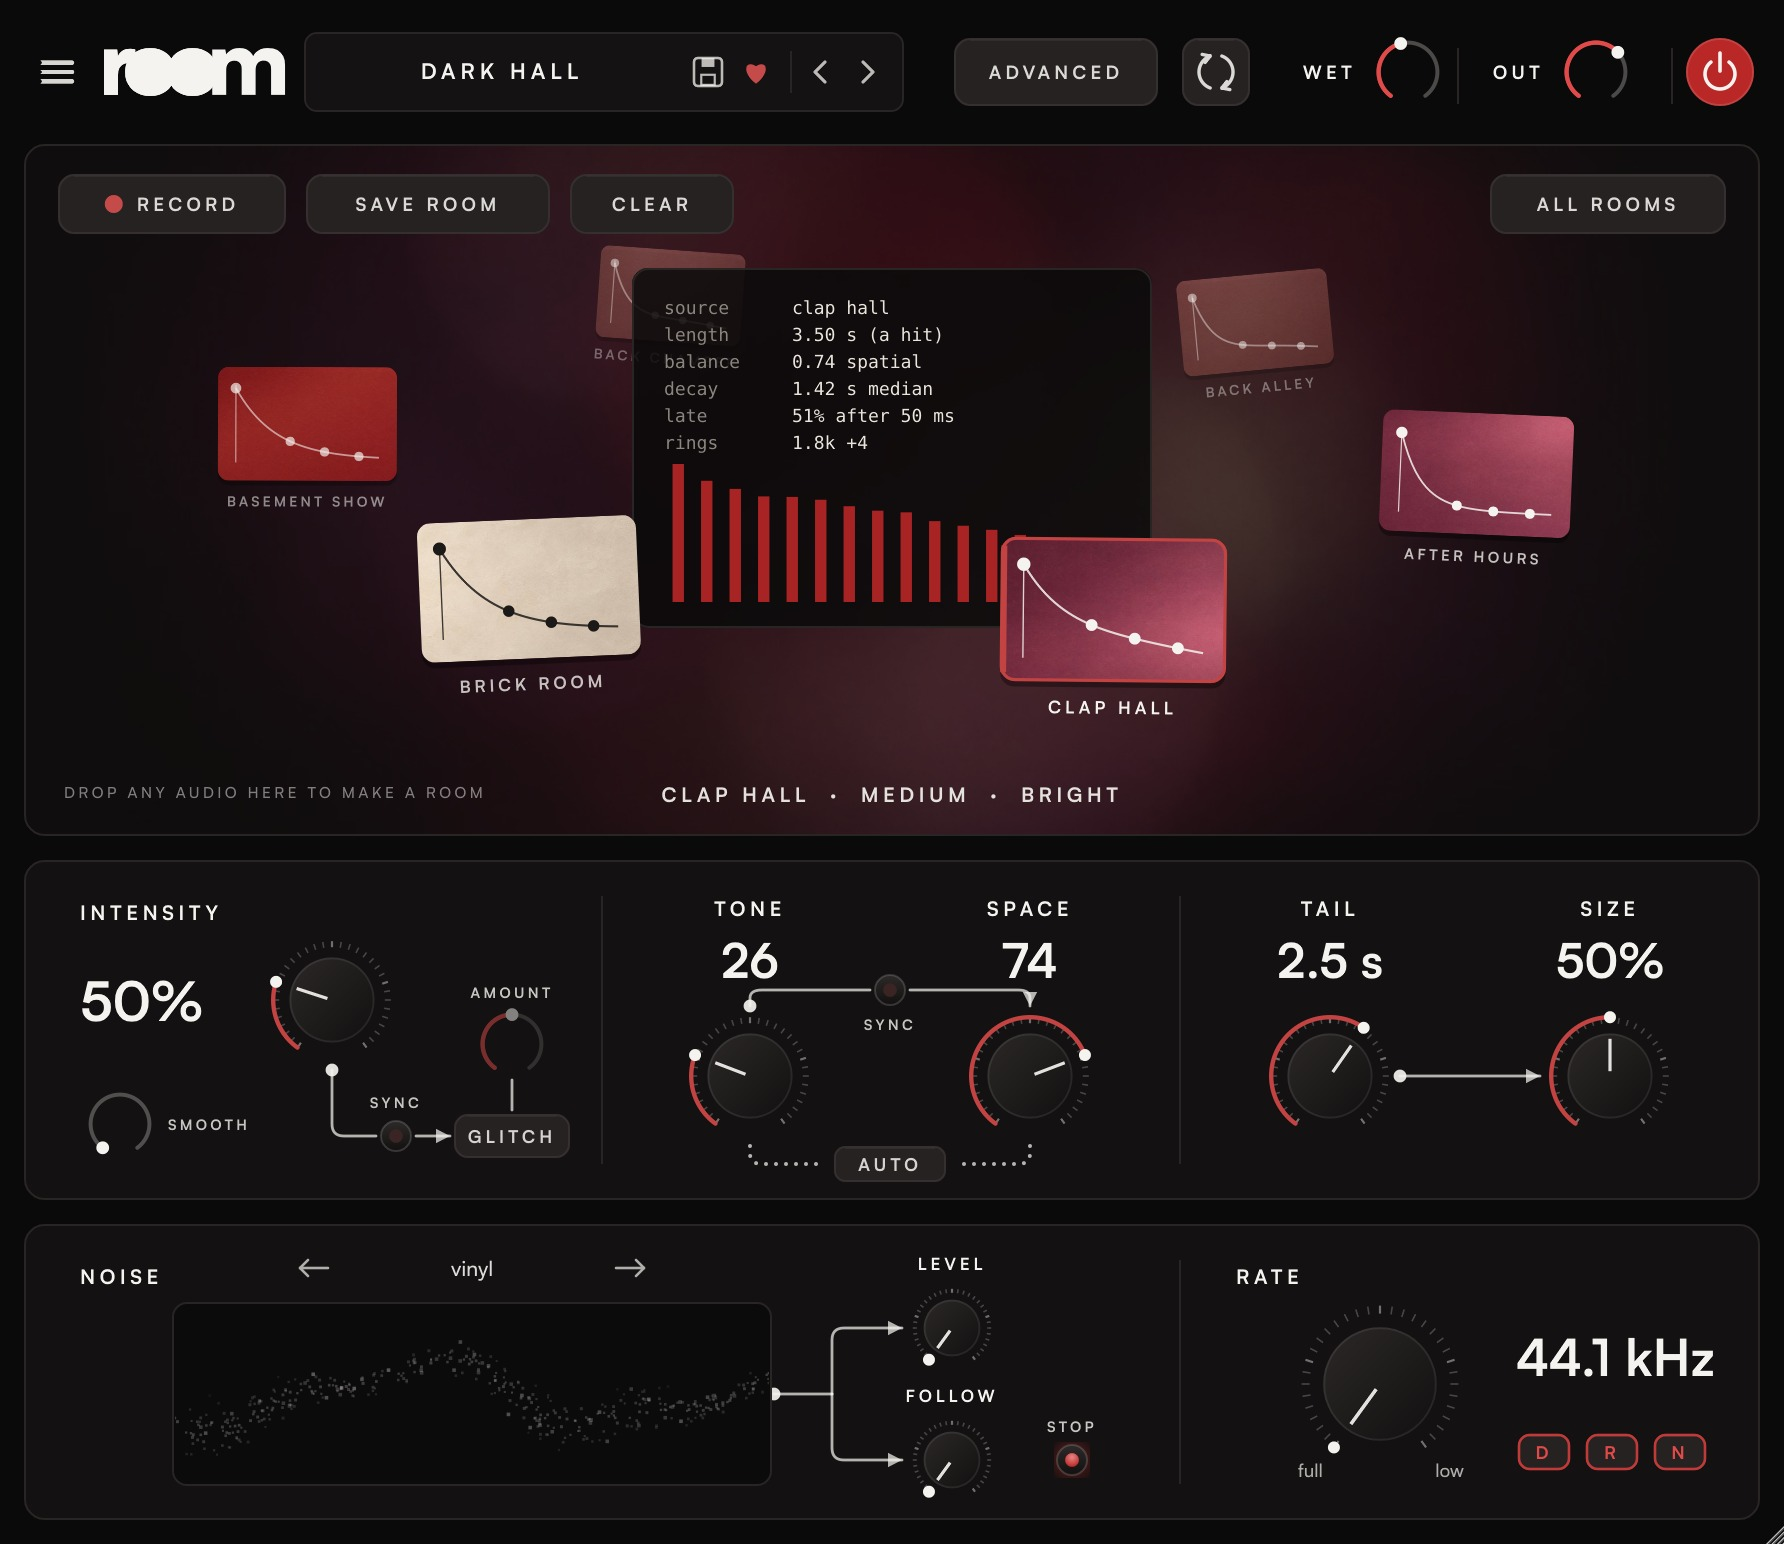
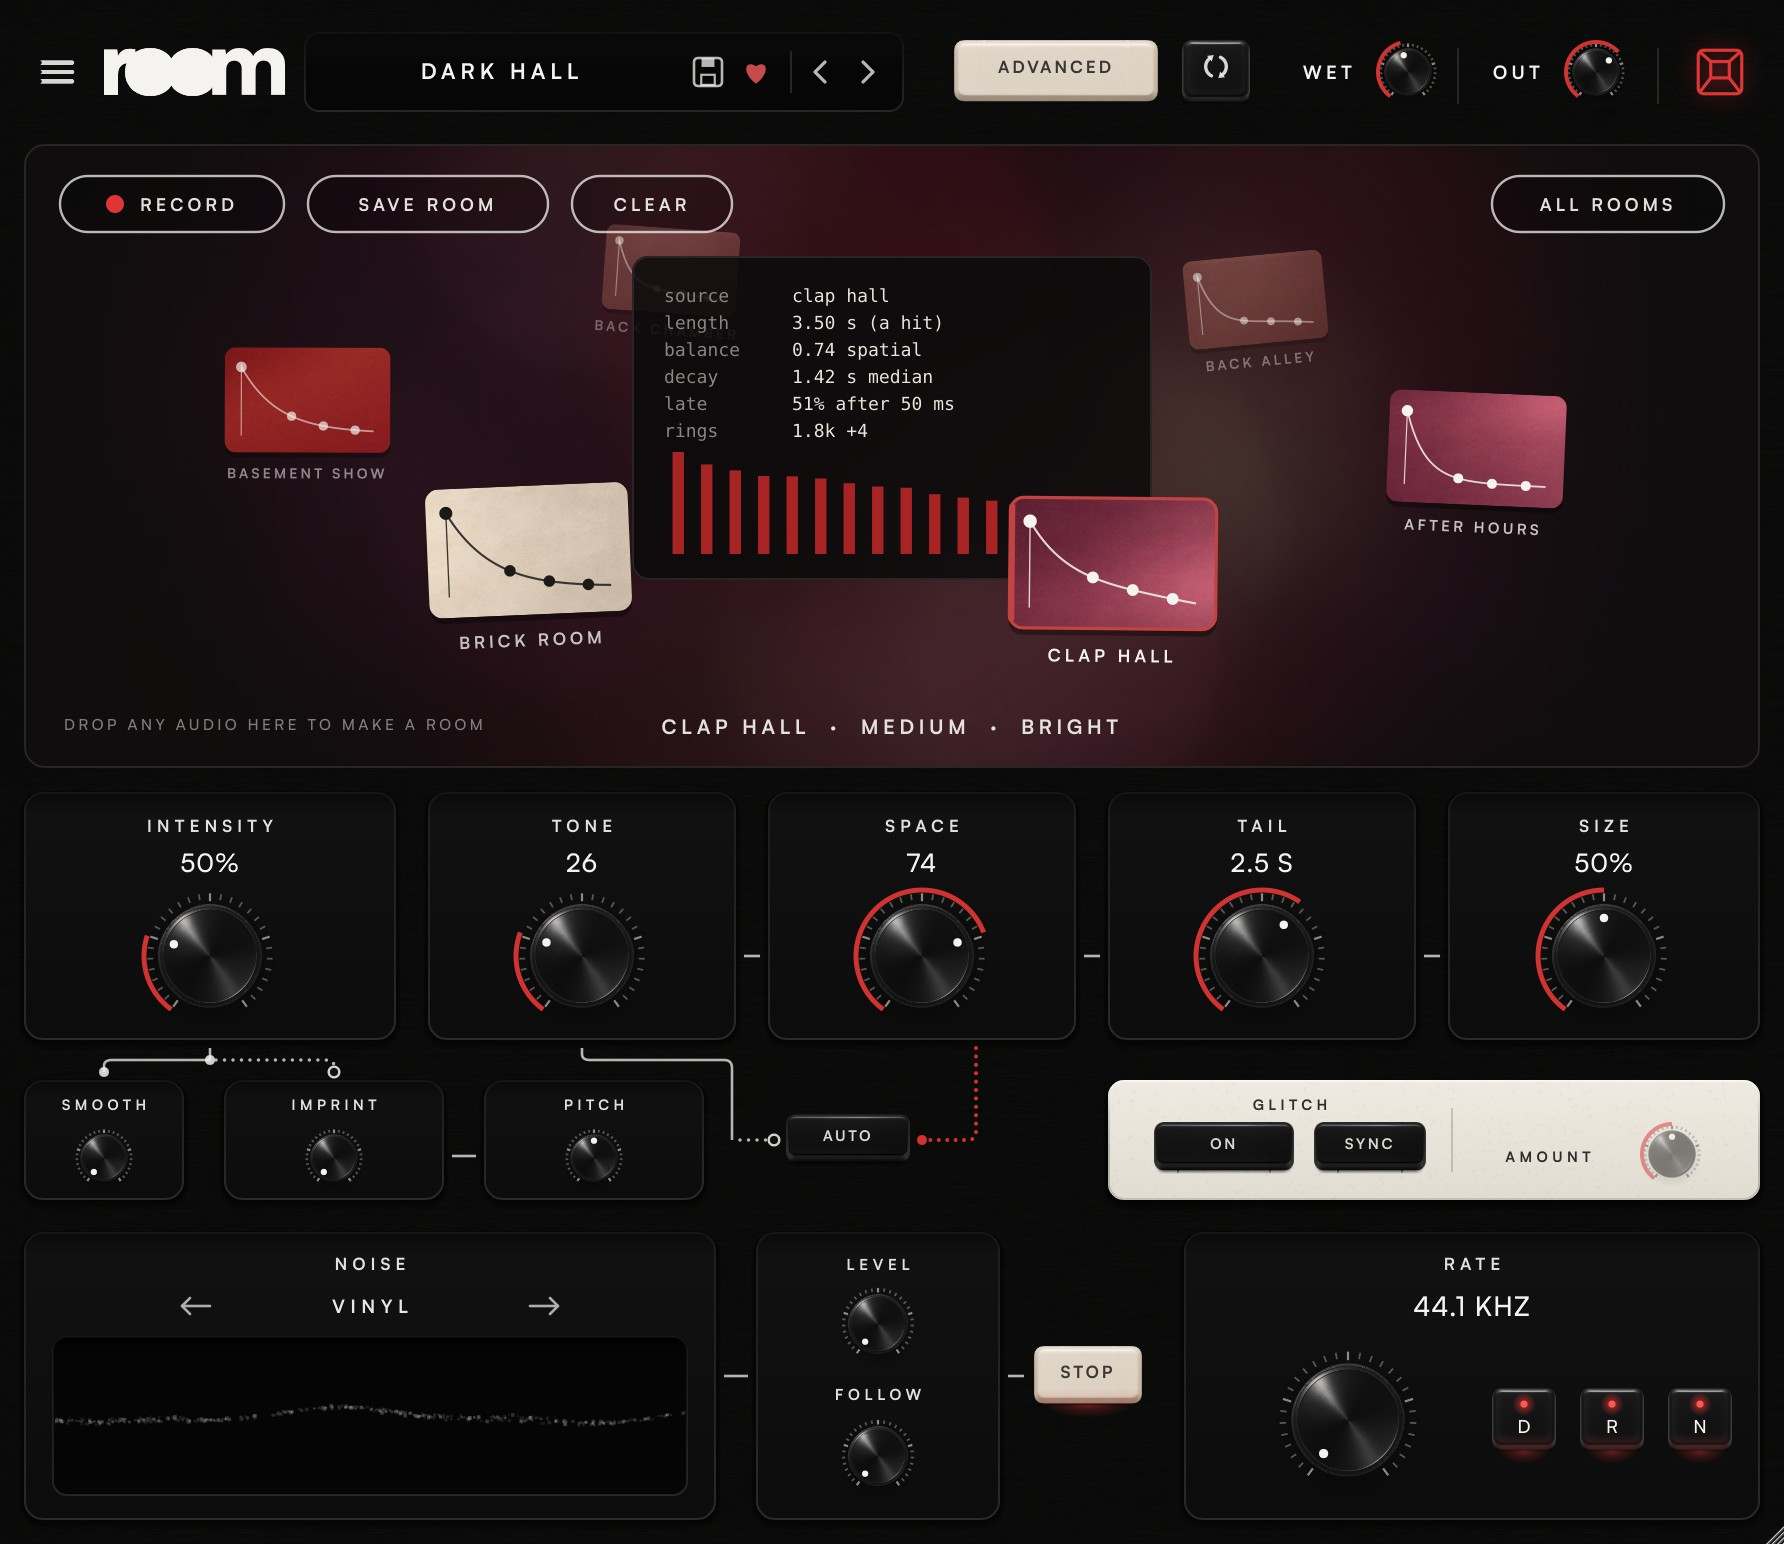
Guide for ROOM 1.4: new shots and the new controls (imprint, pitch, glitch module, mud, falling-apart intensity)
Claude-Session: https://claude.ai/code/session_01CwgnAubRs3BBUrcBaKg4jj

diff --git a/plugin/docs/guide/guide.html b/plugin/docs/guide/guide.html
@@ -81,7 +81,7 @@
   .cover .sub { margin-top: .14in; }
   .cover .bottom { position: absolute; bottom: .55in; left: 0; right: 0; }
 
-  .range .tex { min-height: 1.25in; }
+  .range .tex { min-height: .9in; }
   .faq .q { font-weight: 700; margin-bottom: .02in; }
   .faq .a { color: var(--dim); font-size: 9.3pt; margin-bottom: .12in; }
   .types .tex { min-height: .86in; display: flex; flex-direction: column; justify-content: flex-end; padding: .12in .16in; }
@@ -113,7 +113,7 @@
   <img class="word" src="../../Design/brand/wordmark/room-wordmark-offwhite.svg" alt="ROOM">
   <div class="tagline">capture the sound of <span class="serif">any space</span></div>
   <div class="sub caps dim">Tone &nbsp;·&nbsp; Resonance &nbsp;·&nbsp; Decay</div>
-  <div class="sub caps dim" style="margin-top:.08in; opacity:.7">The ROOM guide &nbsp;·&nbsp; Version 1.0</div>
+  <div class="sub caps dim" style="margin-top:.08in; opacity:.7">The ROOM guide &nbsp;·&nbsp; Version 1.4</div>
   <div class="bottom caps dim">prodbyeville</div>
 </section>
 
@@ -122,8 +122,8 @@
   <div class="caps kicker">01 &nbsp;What ROOM is</div>
   <h1>every sound has a <span class="serif">room</span> in it.</h1>
   <p class="lead">A clap in a stairwell, a voice memo in a kitchen, a tap on a glass: each one carries the space it was made in. ROOM captures that space: its tone, the notes it rings at, and how it lets go of every frequency. <span class="red">Then it hands them back to you, so anything you play can live inside it.</span></p>
-  <p>Drop any audio on ROOM, or record straight into it, and a few seconds later you're playing through that place. Use its colour and its notes on their own, add its decay, make it bigger or longer. Push it past 100% and the room's own notes become an instrument. It works anywhere you'd reach for a reverb, and in plenty of places you wouldn't.</p>
-  <div class="crop" data-src="shots/main.jpg" data-iw="1784" data-ih="1544" data-x="25" data-y="145" data-w="1735" data-h="1060" style="margin:.16in auto .2in; width:88%"></div>
+  <p>Drop any audio on ROOM, or record straight into it, and a few seconds later you're playing through that place. Use its colour and its notes on their own, add its decay, make it bigger or longer, or imprint its timbre straight onto your sound. Push it past 100% and the room starts to fall apart; past 175% its own notes sing. It works anywhere you'd reach for a reverb, and in plenty of places you wouldn't.</p>
+  <div class="crop" data-src="shots/main.jpg" data-iw="1784" data-ih="1544" data-x="25" data-y="145" data-w="1735" data-h="1060" style="margin:.12in auto .14in; width:74%"></div>
   <div class="grid2">
     <div>
       <div class="caps kicker" style="margin-bottom:.06in">02 &nbsp;Why I made it</div>
@@ -133,7 +133,8 @@
     <div>
       <div class="caps kicker" style="margin-bottom:.06in">In one look</div>
       <div class="item"><div class="name">Room capture</div><p>Any sound in, the place it was made in out: a clap, a voice memo, a tap on a glass.</p></div>
-      <div class="item"><div class="name">Tone · resonance · decay</div><p>The room's colour, the notes it rings at, and how each frequency fades. Use any of them, with or without a tail, or push past 100% and play the room's notes.</p></div>
+      <div class="item"><div class="name">Tone · resonance · decay</div><p>The room's colour, the notes it rings at, and how each frequency fades. Use any of them, with or without a tail.</p></div>
+      <div class="item"><div class="name">Imprint · pitch</div><p>Give your sound the room's timbre, and blend an octave down or up into the room.</p></div>
       <div class="item"><div class="name">95 rooms and studios</div><p>49 rooms and 46 studios built in, plus your own packs.</p></div>
     </div>
   </div>
@@ -170,9 +171,9 @@
     <div>
       <p style="display:flex"><span class="num">1</span><span><b>Header:</b> menu, studios, save, Advanced, Randomize, Wet, Out and power.</span></p>
       <p style="display:flex"><span class="num">2</span><span><b>Stage:</b> drop or record a sound, and your rooms float around it.</span></p>
-      <p style="display:flex"><span class="num">3</span><span><b>Controls:</b> Intensity, Smooth and Glitch; Tone and Space; Tail and Size.</span></p>
+      <p style="display:flex"><span class="num">3</span><span><b>Controls:</b> Intensity, Tone, Space, Tail and Size; under them Smooth, Imprint, Pitch and Auto; and the white Glitch module.</span></p>
       <p style="display:flex"><span class="num">4</span><span><b>Noise and Rate:</b> a texture under the room, and sample rate down to lo-fi.</span></p>
-      <p style="display:flex"><span class="num">5</span><span><b>Advanced:</b> pre-delay, damping, width, ducking, freeze, tape, auto eq and two LFOs.</span></p>
+      <p style="display:flex"><span class="num">5</span><span><b>Advanced:</b> pre-delay, damping, width, ducking, freeze, the finish box (tape, auto eq, mud) and two LFOs.</span></p>
     </div>
   </div>
   <div class="footer"><span><b>ROOM</b> &nbsp;The guide</span><span>03</span></div>
@@ -208,24 +209,24 @@
 <section class="page">
   <div class="caps kicker">05 &nbsp;Every control</div>
   <h1>shaping the room.</h1>
-  <div class="crop" data-src="shots/main.jpg" data-iw="1784" data-ih="1544" data-x="25" data-y="860" data-w="1735" data-h="340" style="margin:.1in 0 .16in"></div>
+  <div class="crop" data-src="shots/main.jpg" data-iw="1784" data-ih="1544" data-x="25" data-y="780" data-w="1735" data-h="430" style="margin:.02in auto .06in; width:62%"></div>
   <div class="grid2">
-    <div class="item"><div class="name">Intensity</div><p>How much of the room you hear, from 0 to 200%. Up to 100% it's the room as captured. Past that, its notes take over (below).</p></div>
-    <div class="item"><div class="name">Smooth</div><p>The whole sound as a mic across the room hears it: softer hits, a rounder top, a little air and early reflections.</p></div>
-    <div class="item"><div class="name">Glitch · Amount · Sync</div><p><b>Glitch</b> grabs short slices of the room and stutters them. <b>Amount</b> sets how often and how many repeats. <b>Sync</b> locks the slices to your song's grid.</p></div>
-    <div class="item"><div class="name">Tone · Space</div><p><b>Tone</b> is the room's colour and its ringing notes, with no tail. <b>Space</b> is its decay. Use either, or both.</p></div>
-    <div class="item"><div class="name">Sync · Auto</div><p><b>Sync</b> moves Tone and Space opposite each other, so one knob slides between colour and space. <b>Auto</b> sets both from what ROOM heard in the sound.</p></div>
+    <div class="item"><div class="name">Intensity</div><p>How much of the room you hear, from 0 to 200%. Up to 100% it's the room as captured. Past that, it falls apart (below).</p></div>
+    <div class="item"><div class="name">Tone · Space · Auto</div><p><b>Tone</b> is the room's colour and its ringing notes, with no tail. <b>Space</b> is its decay and width. <b>Auto</b> sets both from what ROOM heard in the sound.</p></div>
     <div class="item"><div class="name">Tail · Size</div><p><b>Tail</b> is how long the room rings. <b>Size</b> makes it smaller or bigger than the one you recorded; 50% is the room as it was.</p></div>
+    <div class="item"><div class="name">Smooth</div><p>The whole sound as a mic across the room hears it: softer hits, a rounder top, a little air.</p></div>
+    <div class="item"><div class="name">Imprint <span class="tag">New</span></div><p>Your sound takes on the room's own timbre, its colour and strongest notes, with or without the tail. No latency.</p></div>
+    <div class="item"><div class="name">Pitch <span class="tag">New</span></div><p>An octave blended into the room. The middle is dry; right brings in the room an octave up, left an octave down. Your dry sound stays in tune.</p></div>
+    <div class="item" style="grid-column: span 2"><div class="name">Glitch module · On · Sync · Amount</div><p><b>On</b> stutters short slices of the room, <b>Sync</b> locks them to your song's grid, <b>Amount</b> sets how often. It gets busier as Intensity rises.</p></div>
   </div>
-  <h2 style="margin-top:.22in">Past 100%</h2>
+  <h2 style="margin-top:.12in">Past 100%</h2>
   <div class="grid4 range" style="margin-top:.1in">
     <div class="tex" style="background-image:url('../../Resources/Ui/card_charcoal.jpg')"><div class="big">0–100%</div><div class="title">The room</div><p>Its tone, notes and decay, from a hint to all of it.</p></div>
-    <div class="tex" style="background-image:url('../../Resources/Ui/card_rose.jpg')"><div class="big">100–150%</div><div class="title">Shimmer</div><p>An octave-up shimmer that feeds back on itself, with reversed swells.</p></div>
-    <div class="tex" style="background-image:url('../../Resources/Ui/card_red.jpg')"><div class="big">150–165%</div><div class="title">Breakup</div><p>A measured amount of digital breakup.</p></div>
-    <div class="tex" style="background-image:url('../../Resources/Ui/card_plum.jpg')"><div class="big">165–200%</div><div class="title">Bloom</div><p>The room's own notes, their fifths and octaves, a choir and warm saturation. Every room blooms differently.</p></div>
+    <div class="tex" style="background-image:url('../../Resources/Ui/card_rose.jpg')"><div class="big">100–140%</div><div class="title">Ringing walls</div><p>The room's notes ring out like metal and drift; a flutter echo slaps between the walls.</p></div>
+    <div class="tex" style="background-image:url('../../Resources/Ui/card_red.jpg')"><div class="big">140–175%</div><div class="title">Falling apart</div><p>A near wall that won't sit still, and a mic preamp pushed until it pumps and clips.</p></div>
+    <div class="tex" style="background-image:url('../../Resources/Ui/card_plum.jpg')"><div class="big">175–200%</div><div class="title">Shimmer &amp; bloom</div><p>An octave-up shimmer, then the room's own notes, fifths and octaves sing. Every room blooms differently.</p></div>
   </div>
-  <p class="dim" style="font-size:9.4pt; margin-top:.14in">Glitch gets busier as Intensity rises, so the two work as a pair.</p>
-  <div class="tex" style="margin-top:.16in; background-image:url('../../Resources/Ui/card_red.jpg'); padding:.16in .22in">
+  <div class="tex" style="margin-top:.12in; background-image:url('../../Resources/Ui/card_red.jpg'); padding:.12in .2in">
     <div class="title">Try this: Space at 0</div>
     <p>Turn Space all the way down and Tone up. There's no tail at all, yet your sound is now in the room: its colour, and its notes ringing along with yours. That's the part a reverb can't give you.</p>
   </div>
@@ -236,7 +237,7 @@
 <section class="page">
   <div class="caps kicker">06 &nbsp;Every control</div>
   <h1>noise and rate.</h1>
-  <div class="crop" data-src="shots/main.jpg" data-iw="1784" data-ih="1544" data-x="25" data-y="1225" data-w="1735" data-h="297" style="margin:.1in 0 .18in"></div>
+  <div class="crop" data-src="shots/main.jpg" data-iw="1784" data-ih="1544" data-x="25" data-y="1222" data-w="1735" data-h="305" style="margin:.1in 0 .18in"></div>
   <p class="lead" style="font-size:11.5pt"><b>Noise</b> lays one of 54 textures under the room, from vinyl to waves to a bus. <b>Rate</b> takes the sample rate down, from clean 44.1 kHz to dusty lo-fi.</p>
   <div class="types" style="display:grid; grid-template-columns:repeat(5,1fr); gap:.1in; margin:.14in 0 .2in">
     <div class="tex" style="background-image:url('../../Resources/Ui/card_charcoal.jpg')"><div class="title">Classics</div><p>Vinyl, tape hiss, air, room tone</p></div>
@@ -261,7 +262,7 @@
   <div class="caps kicker">07 &nbsp;Every control</div>
   <h1>advanced, lfos and randomize.</h1>
   <div class="grid2" style="grid-template-columns: 1.55in 1fr; gap:.28in; margin-top:.12in">
-    <div class="crop" data-src="shots/advanced.jpg" data-iw="2304" data-ih="1544" data-x="1782" data-y="22" data-w="512" data-h="1500"></div>
+    <div class="crop" data-src="shots/advlfo.jpg" data-iw="2304" data-ih="1544" data-x="1782" data-y="22" data-w="512" data-h="1500"></div>
     <div>
       <div class="grid2" style="gap:0 .22in">
         <div class="item" style="border-top:0"><div class="name">Pre-delay</div><p>A gap before the room starts, up to 500 ms, so the dry hit stays clear.</p></div>
@@ -269,9 +270,10 @@
         <div class="item"><div class="name">Width</div><p>From mono to extra wide.</p></div>
         <div class="item"><div class="name">Ducking · Release</div><p>Turns the room down while you play and lets it bloom in the gaps. Release sets how fast it comes back.</p></div>
         <div class="item"><div class="name">Freeze</div><p>Holds the tail forever. Play over it.</p></div>
-        <div class="item"><div class="name">Tape</div><p>Closes in the lows and highs, like an old machine.</p></div>
-        <div class="item"><div class="name">Auto eq</div><p>Tames harsh ringing in the room between 2 and 10 kHz, only where it builds up.</p></div>
-        <div class="item"><div class="name">Two LFOs</div><p>Seven shapes, free or synced, with retrigger. Drag an LFO's handle onto any knob; up to 8 targets each.</p></div>
+        <div class="item"><div class="name">Finish: Tape</div><p>The dark box. Tape closes in the lows and highs, like an old machine.</p></div>
+        <div class="item"><div class="name">Finish: Auto eq</div><p>Tames harsh ringing between 2 and 10 kHz, only where it builds up.</p></div>
+        <div class="item"><div class="name">Finish: Mud <span class="tag">New</span></div><p>Cuts the boxy low mids (280 to 450 Hz), harder when they build up.</p></div>
+        <div class="item"><div class="name">Two LFOs</div><p>Seven shapes, free or synced, with retrigger. Drag an LFO's handle onto any knob; drag its coloured dot to set how much it moves.</p></div>
       </div>
     </div>
   </div>
@@ -279,7 +281,7 @@
     <div class="crop" data-src="shots/randomize.jpg" data-iw="1784" data-ih="1544" data-x="0" data-y="40" data-w="1784" data-h="820"></div>
     <div>
       <h2>Randomize</h2>
-      <p class="dim" style="font-size:9.4pt">Right-click Randomize to tick what it may change. <b style="color:var(--text)">Intensity</b> sets how far it goes:</p>
+      <p class="dim" style="font-size:9.4pt">Right-click Randomize to tick what it may change, including the room itself. <b style="color:var(--text)">Intensity</b> sets how far it goes:</p>
       <p class="dim" style="font-size:9.4pt"><b class="red">Basic</b> stays musical: each knob lands near the middle of its sweet spot, and switches rarely flip. <b class="red">Moderate</b> uses the whole sweet spot. <b class="red">Extreme</b> uses every knob's full range and flips every switch it's allowed to.</p>
       <p class="dim" style="font-size:9.4pt">Your ticks and intensity are saved with the project.</p>
     </div>
@@ -291,7 +293,7 @@
 <section class="page">
   <div class="caps kicker">08 &nbsp;Rooms and studios</div>
   <h1>95 places to start.</h1>
-  <p class="lead" style="font-size:11.5pt">Click the studio name (or All rooms on the stage) to open a library. Click an entry to hear it and keep browsing; arrow keys step through.</p>
+  <p class="lead" style="font-size:11.5pt">The whole Eville library comes with ROOM. Click the studio name (or All rooms on the stage) to open a library. Click an entry to hear it and keep browsing; arrow keys step through.</p>
   <div class="grid3 types" style="margin:.16in 0 .22in">
     <div class="tex" style="background-image:url('../../Resources/Ui/card_red.jpg')"><div class="title">Small spaces <span class="count">· 20</span></div><p>Closets, cars, booths</p></div>
     <div class="tex paper" style="background-image:url('../../Resources/Ui/card_plaster.jpg')"><div class="title">Rooms <span class="count">· 15</span></div><p>Live rooms, garages, apartments</p></div>
@@ -304,8 +306,8 @@
     <div class="crop" data-src="shots/rooms.jpg" data-iw="1784" data-ih="1544" data-x="92" data-y="215" data-w="1600" data-h="1135"></div>
     <div>
       <div class="item" style="border-top:0"><div class="name">Quick slots</div><p>Six slots at the top of the room library. The rooms in them are the cards on the stage.</p></div>
-      <div class="item"><div class="name">Favourites and search</div><p>Heart anything to find it in Favourites. Search covers names, types, styles and what it's made for; Filters narrow it down.</p></div>
-      <div class="item"><div class="name">Your own packs</div><p>Save into a pack, or make one with + new pack.</p></div>
+      <div class="item"><div class="name">Favourites and search</div><p>Heart anything to find it in Favourites. Search covers names, types, styles and what it's made for; the Filters drawer narrows it down by tag and sorts it.</p></div>
+      <div class="item"><div class="name">Your own packs</div><p>Save into a pack, or make one with + new pack. Right-click a pack's banner to give it a cover image or delete it.</p></div>
       <div class="item"><div class="name">Share</div><p>Import and export rooms, studios and whole packs. A room file is tiny, so they're easy to pass around.</p></div>
       <div class="item"><div class="name">Right-click</div><p>Rename, move, show in folder, export or delete.</p></div>
     </div>
